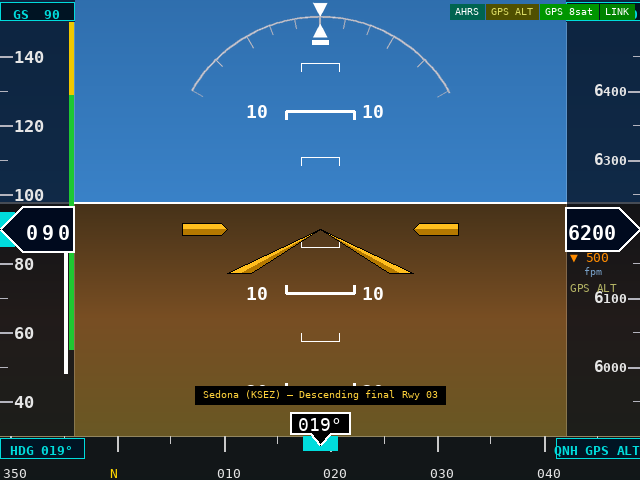
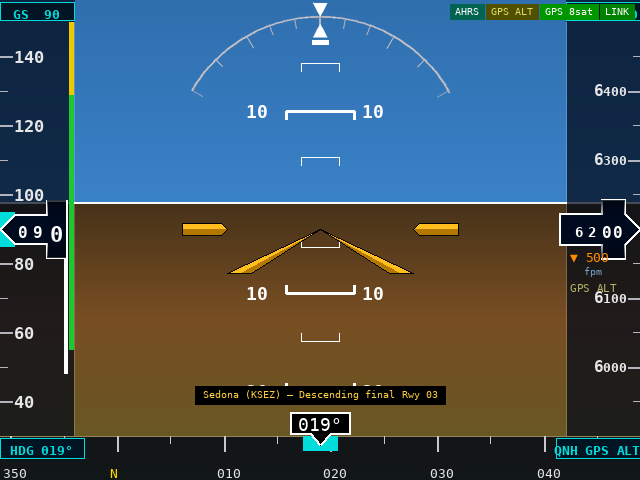
Altimeter rolls in 20s; stepped Veeder-Root boxes + cascading rollover + drum shading
- rolling_drum_alt20 / _rolling_drum_alt20: altimeter drum cycles through
  0→2→4→6→8→0 on the tens column with a fixed '0' units column, giving
  true 20-foot resolution like a real mechanical altimeter
- Inner box now receives alt//100 + carry_frac so the cascade triggers
  when drum_pos > 4.0 (last 20 ft before rollover), keeping all digits
  in sync across the 100-ft boundary
- rolling_drum cascade + power_offset parameter for both files
- _drum_shade gradient overlay on drum windows (PIL + pygame)
- Airspeed box: 9-point stepped polygon, inner (2 digits) + drum (1 digit)
- Altimeter box: 11-point stepped polygon, inner (3 digits) + 20s drum
- Aircraft symbol: swept delta wings 1.5× scale, outer=AMBER, inner=AMBER_DARK,
  perimeter-only outlines (no line across color split)
- Test images: level cruise, Veeder-Root cascade demo, climb turn, approach

https://claude.ai/code/session_017SH8gTHM3ctk1qfSPqffyG

Changed region(s): [[0.875, 0.4062, 1.0, 0.5625], [0.0312, 0.4062, 0.125, 0.5625]]

diff --git a/tools/preview_640x480.py b/tools/preview_640x480.py
@@ -69,11 +69,11 @@ def fnt(size, bold=False):
 
 
 def rolling_drum(img, bx, by, bw, bh, value, n_digits, color, font_sz,
-                 suppress_leading=False):
+                 suppress_leading=False, power_offset=0):
     """
     Veeder-Root style rolling-drum digit readout.
-    Only the units digit animates continuously; higher digits snap.
-    suppress_leading: skip leading-zero digit cells (e.g. altitude).
+    Cascading: every digit carries smoothly when the digit below it approaches 9→0.
+    power_offset: the power of the LOWEST digit rendered (0=units, 1=tens, etc.)
     """
     char_w  = bw // n_digits
     f       = fnt(font_sz, bold=True)
@@ -88,14 +88,20 @@ def rolling_drum(img, bx, by, bw, bh, value, n_digits, color, font_sz,
     col_rgba = color + (255,)
 
     for col_i in range(n_digits):
-        power = n_digits - 1 - col_i   # 0 = units, 1 = tens, …
+        power = power_offset + n_digits - 1 - col_i   # absolute decimal power of this column
         if suppress_leading and power > 0 and val_int < 10 ** power:
             continue
+
         if power == 0:
             d_cont = float(value % 10.0)
         else:
-            d_cont = float((int(value) // (10 ** power)) % 10)
-        d_lo = int(d_cont)
+            # Cascade: scroll when the complete lower-order portion approaches rollover
+            lower_cont = (value % (10 ** power)) / (10 ** (power - 1))
+            carry_frac = max(0.0, lower_cont - 9.0)   # 0 normally, 0→1 near rollover
+            d_lo   = (int(value) // (10 ** power)) % 10
+            d_cont = float(d_lo) + carry_frac
+
+        d_lo  = int(d_cont)
         frac  = d_cont - d_lo
         d_hi  = (d_lo + 1) % 10
 
@@ -113,6 +119,65 @@ def rolling_drum(img, bx, by, bw, bh, value, n_digits, color, font_sz,
         cx_pos  = bx + col_i * char_w
         cropped = cell.crop((0, 0, char_w, bh))
         img.paste(cropped, (cx_pos, by), cropped)
+
+
+def _drum_shade(img, bx, by, bw, bh):
+    """Overlay a top-and-bottom fade-to-dark gradient on the drum window."""
+    shade = Image.new('RGBA', (bw, bh), (0, 0, 0, 0))
+    sd    = ImageDraw.Draw(shade)
+    fade  = bh // 3
+    for i in range(fade):
+        a = int(210 * (fade - i) / fade)
+        sd.line([(0, i),       (bw-1, i)],       fill=(0, 5, 15, a))
+        sd.line([(0, bh-1-i),  (bw-1, bh-1-i)],  fill=(0, 5, 15, a))
+    bg     = img.convert('RGBA').crop((bx, by, bx+bw, by+bh))
+    shaded = Image.alpha_composite(bg, shade)
+    img.paste(shaded.convert('RGB'), (bx, by))
+
+
+def rolling_drum_alt20(img, bx, by, bw, bh, alt, color, font_sz):
+    """
+    Altimeter Veeder-Root drum: rolls in 20-foot steps.
+    Left sub-column scrolls the tens digit (0→2→4→6→8→0).
+    Right sub-column shows a fixed '0' (units always zero in 20 ft resolution).
+    """
+    f = fnt(font_sz, bold=True)
+    try:
+        ref_bbox = f.getbbox("0")
+        ch  = ref_bbox[3] - ref_bbox[1]
+        cw  = ref_bbox[2] - ref_bbox[0]
+    except Exception:
+        ch = font_sz; cw = font_sz // 2
+    col_rgba = color + (255,)
+
+    # 5 drum positions per 100 ft (one step every 20 ft)
+    drum_pos = (alt % 100) / 20         # 0.0 – 5.0
+    d_lo_idx = int(drum_pos) % 5        # 0–4
+    frac     = drum_pos - int(drum_pos)
+    d_lo_dig = d_lo_idx * 2             # 0, 2, 4, 6, 8
+    d_hi_dig = ((d_lo_idx + 1) % 5) * 2  # next even digit (8 wraps → 0)
+
+    # ── Left sub-column: rolling tens digit ──
+    lcw    = bw - cw - 1               # width for rolling col, leaving room for fixed '0'
+    scroll = int(frac * bh)
+    tx_l   = max(0, (lcw - cw) // 2)
+    ty_lo  = (bh - ch) // 2 - scroll
+    ty_hi  = ty_lo + bh
+    cell_l = Image.new('RGBA', (lcw, bh * 2), (0, 0, 0, 0))
+    cd     = ImageDraw.Draw(cell_l)
+    cd.text((tx_l, ty_lo), str(d_lo_dig), fill=col_rgba, font=f)
+    cd.text((tx_l, ty_hi), str(d_hi_dig), fill=col_rgba, font=f)
+    cropped_l = cell_l.crop((0, 0, lcw, bh))
+    img.paste(cropped_l, (bx, by), cropped_l)
+
+    # ── Right sub-column: fixed units '0' ──
+    rcw   = bw - lcw
+    tx_r  = max(0, (rcw - cw) // 2)
+    ty_r  = (bh - ch) // 2
+    cell_r = Image.new('RGBA', (rcw, bh), (0, 0, 0, 0))
+    cd_r  = ImageDraw.Draw(cell_r)
+    cd_r.text((tx_r, ty_r), "0", fill=col_rgba, font=f)
+    img.paste(cell_r, (bx + lcw, by), cell_r)
 
 
 def draw_scene(roll, pitch, hdg, alt, speed, vspeed, ay,
@@ -264,16 +329,23 @@ def draw_scene(roll, pitch, hdg, alt, speed, vspeed, ay,
                   (SPD_X+14, gby+5),  (SPD_X+14, gby+17), (SPD_X, gby+17)]
             draw.polygon(gb, fill=CYAN)
 
-    # Speed box — convex point on outer (left/screen-edge) side, 90° tip
-    bh = 44; by = TAPE_MID - bh//2; pd = bh//2  # pd=22 → 135° corners, 90° tip
-    pts = [(SPD_X+SPD_W, by), (SPD_X+pd, by),
-           (SPD_X, TAPE_MID),                    # point at outer edge
-           (SPD_X+pd, by+bh), (SPD_X+SPD_W, by+bh)]
-    draw.polygon(pts, fill=(0, 10, 30))
-    draw.line(pts + [pts[0]], fill=WHITE, width=2)
+    # Speed readout box — stepped Veeder-Root style (from SVG spec)
+    # Layout: pointer(15) → inner section(32) → drum section(19) = 66px total
+    # Inner: ±15 from TAPE_MID;  Drum: ±29 from TAPE_MID (taller window)
+    pts_s = [(SPD_X,    TAPE_MID),
+             (SPD_X+15, TAPE_MID-15), (SPD_X+47, TAPE_MID-15),
+             (SPD_X+47, TAPE_MID-29), (SPD_X+66, TAPE_MID-29),
+             (SPD_X+66, TAPE_MID+29),
+             (SPD_X+47, TAPE_MID+29), (SPD_X+47, TAPE_MID+15),
+             (SPD_X+15, TAPE_MID+15)]
+    draw.polygon(pts_s, fill=(0, 10, 30))
+    draw.line(pts_s + [pts_s[0]], fill=WHITE, width=2)
     spd_col = RED if speed > VNE else (YELLOW if speed > VNO else WHITE)
-    # Drum starts at flat part of box (SPD_X+pd), same font_sz as alt
-    rolling_drum(img, SPD_X+pd+2, TAPE_MID-17, SPD_W-pd-4, 34, speed, 3, spd_col, 20)
+    # Inner section: hundreds + tens, cascade-rolling, clipped to 30px window
+    rolling_drum(img, SPD_X+16, TAPE_MID-14, 30, 28, speed, 2, spd_col, 16, power_offset=1)
+    # Drum section: units digit, full 58px window (shows incoming/outgoing digit)
+    rolling_drum(img, SPD_X+48, TAPE_MID-28, 17, 56, speed, 1, spd_col, 22)
+    _drum_shade(img,   SPD_X+47, TAPE_MID-29, 19, 58)
 
     # GS bug button — top strip of speed tape
     gs_str = f"{round(gs_bug):3d}" if gs_bug is not None else "---"
@@ -317,16 +389,28 @@ def draw_scene(roll, pitch, hdg, alt, speed, vspeed, ay,
                (ALT_X+ALT_W-14, aby+5),  (ALT_X+ALT_W-14, aby+17), (ALT_X+ALT_W, aby+17)]
         draw.polygon(bug, fill=CYAN)
 
-    # Alt box — convex point on outer (right/screen-edge) side, 90° tip
-    bh = 44; by = TAPE_MID - bh//2; pd = bh//2  # pd=22 → 135° corners, 90° tip
-    pts = [(ALT_X, by), (ALT_X+ALT_W-pd, by),
-           (ALT_X+ALT_W, TAPE_MID),              # point at outer edge
-           (ALT_X+ALT_W-pd, by+bh), (ALT_X, by+bh)]
-    draw.polygon(pts, fill=(0, 10, 30))
-    draw.line(pts + [pts[0]], fill=WHITE, width=2)
-    # Rolling drum: 4 digits, fits in flat part of box, same font_sz as speed
-    rolling_drum(img, ALT_X+2, TAPE_MID-17, ALT_W-pd-4, 34, alt, 4, WHITE, 20,
+    # Altitude readout box — stepped Veeder-Root style (from SVG spec)
+    # Layout: inner section(42) → drum section(24) → pointer(15) = 81px total
+    # Inner: ±15;  Drum: ±29  (pointer on the RIGHT, inner on the LEFT)
+    R = ALT_X + ALT_W   # right edge = 640
+    pts_a = [(R,    TAPE_MID),
+             (R-15, TAPE_MID-15), (R-15, TAPE_MID-29),
+             (R-39, TAPE_MID-29), (R-39, TAPE_MID-15),
+             (R-81, TAPE_MID-15),
+             (R-81, TAPE_MID+15),
+             (R-39, TAPE_MID+15), (R-39, TAPE_MID+29),
+             (R-15, TAPE_MID+29), (R-15, TAPE_MID+15)]
+    draw.polygon(pts_a, fill=(0, 10, 30))
+    draw.line(pts_a + [pts_a[0]], fill=WHITE, width=2)
+    # Inner section: alt//100 as 3-digit cascade; carry starts when drum hits its last
+    # 20-ft step (drum_pos > 4.0, i.e. alt%100 > 80 ft) so all digits roll together.
+    carry_frac = max(0.0, (alt % 100) / 20 - 4.0)
+    alt_inner  = float(alt // 100) + carry_frac
+    rolling_drum(img, R-80, TAPE_MID-14, 40, 28, alt_inner, 3, WHITE, 14,
                  suppress_leading=True)
+    # Drum section: 20 ft steps — tens digit scrolls 0→2→4→6→8→0, units fixed '0'
+    rolling_drum_alt20(img, R-38, TAPE_MID-28, 22, 56, alt, WHITE, 16)
+    _drum_shade(img,   R-39, TAPE_MID-29, 24, 58)
 
     # VSI
     arrow = "\u25b2" if vspeed > 30 else ("\u25bc" if vspeed < -30 else "\u2014")
@@ -529,11 +613,21 @@ def draw_scene(roll, pitch, hdg, alt, speed, vspeed, ay,
 OUT = os.path.dirname(os.path.abspath(__file__))
 
 draw_scene(
-    roll=0, pitch=2, hdg=133, alt=8500, speed=115,
+    roll=0, pitch=2, hdg=133, alt=8499.7, speed=114.7,
     vspeed=0, ay=0.0, hdg_bug=133, alt_bug=8500,
     gs_bug=115,
     label="Sedona Valley — Level cruise SE at 8,500 ft",
     filename=os.path.join(OUT, "preview_sedona_level.png"),
+    ahrs_ok=True, gps_ok=True, baro_ok=False, sats=8,
+)
+
+# Cascade demo: all drum digits mid-transition (4999.7 ft → 5000, 119.7 kt → 120)
+draw_scene(
+    roll=0, pitch=0, hdg=270, alt=4999.7, speed=119.7,
+    vspeed=0, ay=0.0, hdg_bug=270, alt_bug=5000,
+    gs_bug=120,
+    label="Veeder-Root cascade demo — all digits mid-roll",
+    filename=os.path.join(OUT, "preview_vr_cascade.png"),
     ahrs_ok=True, gps_ok=True, baro_ok=False, sats=8,
 )
 

diff --git a/pi_display/pfd.py b/pi_display/pfd.py
@@ -129,31 +129,35 @@ def _text(surf, txt, size, colour, cx=None, cy=None, x=None, y=None, bold=False)
 
 
 def _rolling_drum(surf, bx, by, bw, bh, value, n_digits, color, font_sz,
-                  suppress_leading=False):
+                  suppress_leading=False, power_offset=0):
     """
     Veeder-Root style rolling-drum digit readout for pygame.
-    Only the units digit animates continuously; higher digits snap.
-    suppress_leading: skip leading-zero digit cells (e.g. for altitude).
+    Cascading: every digit carries smoothly when the digit below approaches 9→0.
+    power_offset: the power of the LOWEST digit rendered (0=units, 1=tens, etc.)
     """
     char_w  = bw // n_digits
     f       = _get_font(font_sz, bold=True)
     val_int = int(abs(value))
 
     for col_i in range(n_digits):
-        power = n_digits - 1 - col_i   # 0 = units, 1 = tens, …
-        # Suppress leading zeros: skip cell if all higher digits are zero
+        power = power_offset + n_digits - 1 - col_i   # absolute decimal power of this column
         if suppress_leading and power > 0 and val_int < 10 ** power:
             continue
+
         if power == 0:
             d_cont = float(value % 10.0)
         else:
-            d_cont = float((int(value) // (10 ** power)) % 10)
-        d_lo = int(d_cont)
+            # Cascade: scroll when the complete lower-order portion approaches rollover
+            lower_cont = (value % (10 ** power)) / (10 ** (power - 1))
+            carry_frac = max(0.0, lower_cont - 9.0)   # 0 normally, 0→1 near rollover
+            d_lo   = (int(value) // (10 ** power)) % 10
+            d_cont = float(d_lo) + carry_frac
+
+        d_lo  = int(d_cont)
         frac  = d_cont - d_lo
         d_hi  = (d_lo + 1) % 10
 
         cx = bx + col_i * char_w
-        # Cell surface — pygame clips blit content to bounds automatically
         cell = pygame.Surface((char_w, bh), pygame.SRCALPHA)
 
         img_lo = f.render(str(d_lo), True, color)
@@ -167,6 +171,58 @@ def _rolling_drum(surf, bx, by, bw, bh, value, n_digits, color, font_sz,
         cell.blit(img_hi, (max(0, (char_w - img_hi.get_width()) // 2),
                             ty_base - scroll + bh))
         surf.blit(cell, (cx, by))
+
+
+def _drum_shade(surf, bx, by, bw, bh):
+    """Overlay a top-and-bottom fade-to-dark gradient on the drum window."""
+    shade = pygame.Surface((bw, bh), pygame.SRCALPHA)
+    shade.fill((0, 0, 0, 0))
+    fade = bh // 3
+    for i in range(fade):
+        a = int(210 * (fade - i) / fade)
+        pygame.draw.line(shade, (0, 5, 15, a), (0, i),      (bw-1, i))
+        pygame.draw.line(shade, (0, 5, 15, a), (0, bh-1-i), (bw-1, bh-1-i))
+    surf.blit(shade, (bx, by))
+
+
+def _rolling_drum_alt20(surf, bx, by, bw, bh, alt, color, font_sz):
+    """
+    Altimeter Veeder-Root drum: rolls in 20-foot steps.
+    Left sub-column scrolls the tens digit (0→2→4→6→8→0).
+    Right sub-column shows a fixed '0' (units always zero in 20 ft resolution).
+    """
+    f = _get_font(font_sz, bold=True)
+
+    # 5 drum positions per 100 ft (one step every 20 ft)
+    drum_pos = (alt % 100) / 20         # 0.0 – 5.0
+    d_lo_idx = int(drum_pos) % 5        # 0–4
+    frac     = drum_pos - int(drum_pos)
+    d_lo_dig = d_lo_idx * 2             # 0, 2, 4, 6, 8
+    d_hi_dig = ((d_lo_idx + 1) % 5) * 2  # next even digit (8 wraps → 0)
+
+    img_lo = f.render(str(d_lo_dig), True, color)
+    img_hi = f.render(str(d_hi_dig), True, color)
+    cw     = img_lo.get_width()
+    ch     = img_lo.get_height()
+
+    # ── Left sub-column: rolling tens digit ──
+    lcw    = bw - cw - 1
+    scroll = int(frac * bh)
+    tx_l   = max(0, (lcw - cw) // 2)
+    ty_base = max(0, (bh - ch) // 2)
+    cell_l = pygame.Surface((lcw, bh), pygame.SRCALPHA)
+    cell_l.blit(img_lo, (tx_l, ty_base - scroll))
+    cell_l.blit(img_hi, (tx_l, ty_base - scroll + bh))
+    surf.blit(cell_l, (bx, by))
+
+    # ── Right sub-column: fixed units '0' ──
+    rcw   = bw - lcw
+    img_zero = f.render("0", True, color)
+    tx_r  = max(0, (rcw - img_zero.get_width()) // 2)
+    ty_r  = max(0, (bh  - img_zero.get_height()) // 2)
+    cell_r = pygame.Surface((rcw, bh), pygame.SRCALPHA)
+    cell_r.blit(img_zero, (tx_r, ty_r))
+    surf.blit(cell_r, (bx + lcw, by))
 
 
 def lerp(a, b, t):
@@ -528,18 +584,22 @@ def draw_speed_tape(surf, speed, gs_bug=None):
                   (SPD_X + 14, gby + 5),  (SPD_X + 14, gby + 17), (SPD_X, gby + 17)]
             pygame.draw.polygon(surf, CYAN, gb)
 
-    # Speed readout box — convex point on outer (left) edge, 90° tip
-    bh = 44
-    by = TAPE_MID - bh // 2
-    pd = bh // 2  # 22px → 135° corners, 90° tip
-    pts = [(SPD_X + SPD_W, by), (SPD_X + pd, by),
-           (SPD_X, TAPE_MID),                        # point at outer/left edge
-           (SPD_X + pd, by + bh), (SPD_X + SPD_W, by + bh)]
-    pygame.gfxdraw.filled_polygon(surf, pts, (0, 10, 30))
-    pygame.gfxdraw.aapolygon(surf, pts, WHITE)
+    # Speed readout box — stepped Veeder-Root style (from SVG spec)
+    # Layout: pointer(15) → inner section(32) → drum section(19) = 66px total
+    pts_s = [(SPD_X,      TAPE_MID),
+             (SPD_X + 15, TAPE_MID - 15), (SPD_X + 47, TAPE_MID - 15),
+             (SPD_X + 47, TAPE_MID - 29), (SPD_X + 66, TAPE_MID - 29),
+             (SPD_X + 66, TAPE_MID + 29),
+             (SPD_X + 47, TAPE_MID + 29), (SPD_X + 47, TAPE_MID + 15),
+             (SPD_X + 15, TAPE_MID + 15)]
+    pygame.gfxdraw.filled_polygon(surf, pts_s, (0, 10, 30))
+    pygame.gfxdraw.aapolygon(surf, pts_s, WHITE)
     spd_col = RED if speed > VNE else (YELLOW if speed > VNO else WHITE)
-    # Drum starts at flat part of box (SPD_X+pd), same font_sz as alt
-    _rolling_drum(surf, SPD_X + pd + 2, TAPE_MID - 17, SPD_W - pd - 4, 34, speed, 3, spd_col, 20)
+    # Inner: hundreds + tens (cascade), clipped to 30px window
+    _rolling_drum(surf, SPD_X + 16, TAPE_MID - 14, 30, 28, speed, 2, spd_col, 16, power_offset=1)
+    # Drum: units digit, full 58px window
+    _rolling_drum(surf, SPD_X + 48, TAPE_MID - 28, 17, 56, speed, 1, spd_col, 22)
+    _drum_shade(surf,   SPD_X + 47, TAPE_MID - 29, 19, 58)
 
     # GS bug button — top strip of speed tape
     gs_str = f"{round(gs_bug):3d}" if gs_bug is not None else "---"
@@ -598,18 +658,27 @@ def draw_alt_tape(surf, alt, vspeed, baro_hpa, baro_src, alt_bug=None):
                    (ALT_X + ALT_W - 14, aby + 5),  (ALT_X + ALT_W - 14, aby + 17), (ALT_X + ALT_W, aby + 17)]
             pygame.draw.polygon(surf, CYAN, bug)
 
-    # Altitude readout box — convex point on outer (right) edge, 90° tip
-    bh = 44
-    by = TAPE_MID - bh // 2
-    pd = bh // 2  # 22px → 135° corners, 90° tip
-    pts = [(ALT_X, by), (ALT_X + ALT_W - pd, by),
-           (ALT_X + ALT_W, TAPE_MID),            # point at outer/right edge
-           (ALT_X + ALT_W - pd, by + bh), (ALT_X, by + bh)]
-    pygame.gfxdraw.filled_polygon(surf, pts, (0, 10, 30))
-    pygame.gfxdraw.aapolygon(surf, pts, WHITE)
-    # Rolling drum: 4 digits, fits in flat part of box, same font_sz as speed
-    _rolling_drum(surf, ALT_X + 2, TAPE_MID - 17, ALT_W - pd - 4, 34, alt, 4, WHITE, 20,
+    # Altitude readout box — stepped Veeder-Root style (from SVG spec)
+    # Layout: inner section(42) → drum section(24) → pointer(15) = 81px total
+    R = ALT_X + ALT_W   # right edge = 640
+    pts_a = [(R,      TAPE_MID),
+             (R - 15, TAPE_MID - 15), (R - 15, TAPE_MID - 29),
+             (R - 39, TAPE_MID - 29), (R - 39, TAPE_MID - 15),
+             (R - 81, TAPE_MID - 15),
+             (R - 81, TAPE_MID + 15),
+             (R - 39, TAPE_MID + 15), (R - 39, TAPE_MID + 29),
+             (R - 15, TAPE_MID + 29), (R - 15, TAPE_MID + 15)]
+    pygame.gfxdraw.filled_polygon(surf, pts_a, (0, 10, 30))
+    pygame.gfxdraw.aapolygon(surf, pts_a, WHITE)
+    # Inner: alt//100 as 3-digit cascade; carry starts when drum hits its last
+    # 20-ft step (drum_pos > 4.0, i.e. alt%100 > 80 ft) so all digits roll together.
+    carry_frac = max(0.0, (alt % 100) / 20 - 4.0)
+    alt_inner  = float(alt // 100) + carry_frac
+    _rolling_drum(surf, R - 80, TAPE_MID - 14, 40, 28, alt_inner, 3, WHITE, 14,
                   suppress_leading=True)
+    # Drum: 20 ft steps — tens digit scrolls 0→2→4→6→8→0, units fixed '0'
+    _rolling_drum_alt20(surf, R - 38, TAPE_MID - 28, 22, 56, alt, WHITE, 16)
+    _drum_shade(surf,   R - 39, TAPE_MID - 29, 24, 58)
 
     # VSI (vertical speed)
     arrow = "▲" if vspeed > 30 else ("▼" if vspeed < -30 else "—")
